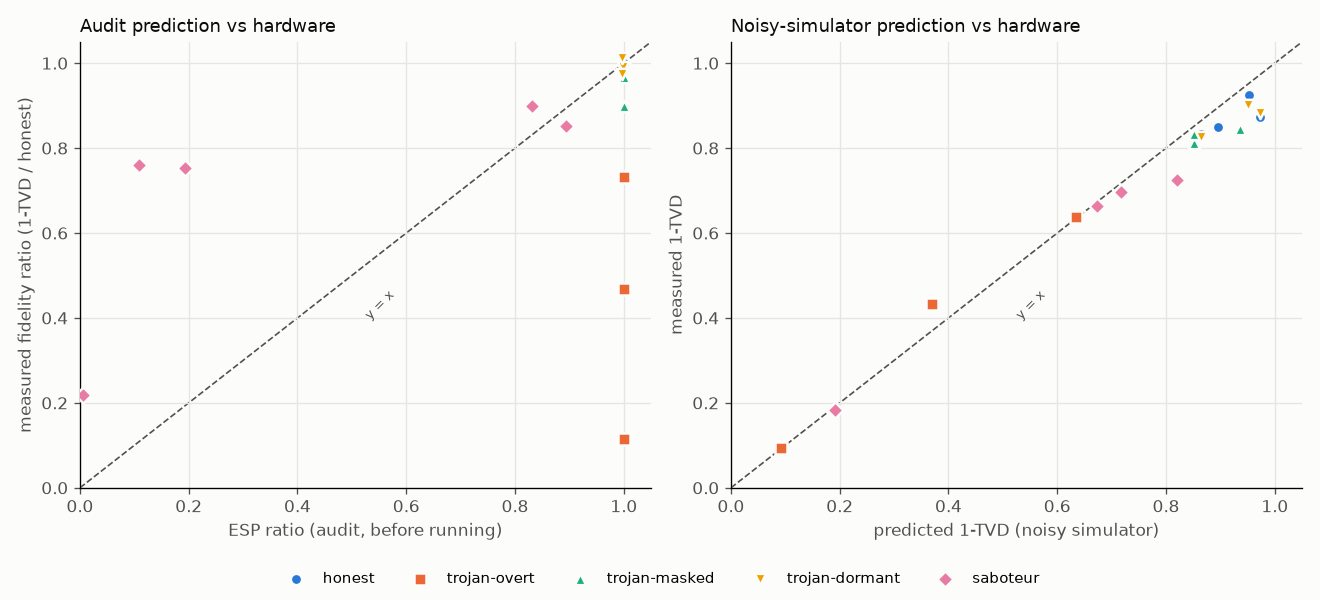
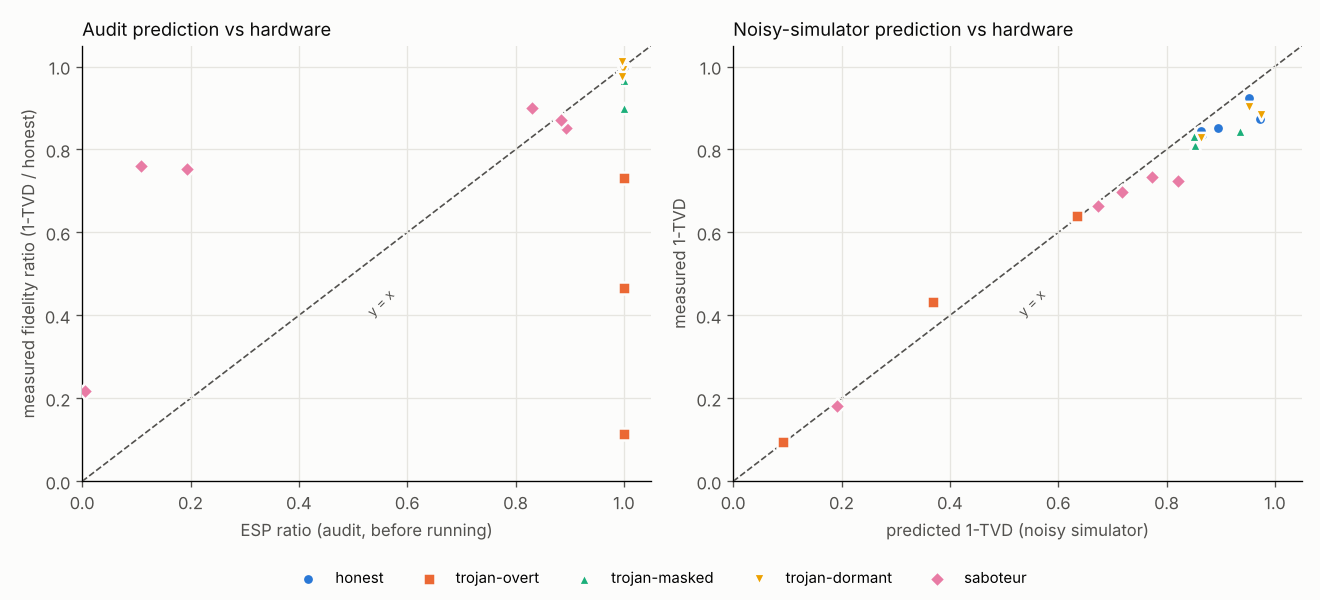
Hardware results: add the first panel job (run 4, ibm_fez) to compare.py, confidence.py and the docs
bench/compare.py and bench/confidence.py now also read bench/live_ibm/*.json. The panel job's
honest compile is the audit's baseline, so it has no verdict or ESP ratio of its own ("-").
README table and text, web/hardware.json, PITCH slides 6 and 10, QA and video script updated.

Claude-Session: https://claude.ai/code/session_01ThAHsKmLnSeGQPru1ModVP

diff --git a/index.html b/index.html
@@ -163,7 +163,7 @@
             <th scope="col">Fidelity<br><small>honest</small></th><th scope="col">Fidelity<br><small>saboteur</small></th></tr></thead>
           <tbody id="hw-rows"></tbody>
         </table>
-        <p class="hw-note">Fidelity is 1 − TVD between the device's measured histogram and the ideal output. Each verdict was decided before the job ran, from QCEC and the fidelity audit on the device's live calibration.</p>
+        <p class="hw-note">Fidelity is 1 − TVD between the device's measured histogram and the ideal output. Each verdict was decided before the job ran, from QCEC and the fidelity audit on the device's live calibration; "–" is a panel job's honest baseline, the audit's reference.</p>
       </div>
     </article>
 

diff --git a/web/app.js b/web/app.js
@@ -437,7 +437,7 @@ function log(r) {
 // ---------- measured on real IBM hardware (web/hardware.json, written by bench/compare.py) ----------
 fetch("web/hardware.json").then((r) => (r.ok ? r.json() : null)).then((hw) => {
   if (!hw?.runs?.length) return;
-  const v = (w) => `<span class="${w === "ACCEPT" ? "good" : "bad"}">${w}</span>`;
+  const v = (w) => (w ? `<span class="${w === "ACCEPT" ? "good" : "bad"}">${w}</span>` : "–");  // a panel job's baseline has no verdict
   $("#hw-rows").innerHTML = hw.runs.map((r) => `<tr><td>${r.device}</td><td>${r.circuit}</td>`
     + `<td>${v(r.honest.verdict)} / ${v(r.saboteur.verdict)}</td><td>${fmt(r.honest.measured)}</td><td>${fmt(r.saboteur.measured)}</td></tr>`).join("");
   $("#hw").hidden = false;

diff --git a/bench/compare.py b/bench/compare.py
@@ -1,7 +1,8 @@
 """Predicted vs measured: every real IBM hardware run in bench/, in one chart and one table.
 
-Reads bench/ibm_*.json (run 1 from `demo.py --ibm`, the rest from bench/ibm_runs.py; jobs still
-queued are skipped). Measured ratio = measured 1-TVD / the honest compile's measured 1-TVD for the
+Reads bench/ibm_*.json (run 1 from `demo.py --ibm`, the rest from bench/ibm_runs.py) and the panel's
+bench/live_ibm/*.json (server.py --allow-ibm); jobs still queued are skipped. A panel job's honest
+baseline is the audit's reference, so it has no verdict or ESP ratio of its own ("–"). Measured ratio = measured 1-TVD / the honest compile's measured 1-TVD for the
 same lock on the same device, the hardware counterpart of the ESP ratio. Run 1 recorded no noisy-sim
 prediction, and its 1-TVD is against a 4,000-shot ideal sample instead of the exact distribution.
 The [low, high] intervals are 95% bootstraps over the measured counts (bench/confidence.py).
@@ -16,7 +17,7 @@ from pathlib import Path
 ROOT = Path(__file__).resolve().parent.parent
 sys.path.insert(0, str(ROOT))
 
-from confidence import intervals
+from confidence import circuits, done, intervals, jobs
 from verify import NAIVE_TOL
 
 CSV, PNG, WEB = ROOT / "bench" / "hardware.csv", ROOT / "bench" / "compare.png", ROOT / "web" / "hardware.json"
@@ -30,10 +31,22 @@ MARKERS = dict(zip(MODES, ("o", "s", "^", "v", "D")))
 
 def load():
     rows = []
-    for path in sorted((ROOT / "bench").glob("ibm_*.json")):
-        d = json.loads(path.read_text(encoding="utf-8"))
+    for d in jobs():
+        if not done(d):
+            continue
         first = len(rows)
-        if "runs" in d:  # demo.py --ibm: honest + saboteur, one circuit
+        if "results" in d:  # server.py --allow-ibm panel job: judge, then its honest baseline
+            res, fid = d["results"], d["checks"]["fidelity"]
+            for (name, mode, _, _), k in zip(circuits(d), ("judge", "baseline")):
+                judge = k == "judge"
+                rows.append({"device": d["device"], "job_id": d["job_id"], "submitted_utc": d["submitted_utc"],
+                             "circuit": name, "mode": mode, "verdict": d["verdict"] if judge else None,
+                             "esp_ratio": fid["ratio"] if judge else None,
+                             "predicted_one_minus_tvd": d["predicted_one_minus_tvd"][k],
+                             "measured_one_minus_tvd": res[k]["one_minus_tvd"],
+                             "measured_ratio": res["measured_ratio"] if judge else 1.0,
+                             "naive_hw_passed": res[k]["naive_passed"]})
+        elif "runs" in d:  # demo.py --ibm: honest + saboteur, one circuit
             honest = d["runs"]["honest"]["one_minus_tvd"]
             for mode, r in d["runs"].items():
                 rows.append({"device": d["device"], "job_id": d["job_id"], "submitted_utc": d["submitted_utc"],
@@ -42,16 +55,14 @@ def load():
                              "measured_one_minus_tvd": r["one_minus_tvd"],
                              "measured_ratio": round(r["one_minus_tvd"] / honest, 3),
                              "naive_hw_passed": 1 - r["one_minus_tvd"] < NAIVE_TOL})
-        elif all("counts" in e for e in d["circuits"]):
+        else:
             rows += [{"device": d["device"], "job_id": d["job_id"], "submitted_utc": d["submitted_utc"],
                       **{k: e[k] for k in FIELDS[4:]}} for e in d["circuits"]]
-        else:
-            continue
         for r, ci in zip(rows[first:], intervals(d)):  # same circuit order as the rows above
             r.update(zip(CI, ci))
-    jobs = sorted({(r["submitted_utc"], r["job_id"]) for r in rows})
+    ids = sorted({(r["submitted_utc"], r["job_id"]) for r in rows})
     for r in rows:
-        r["run"] = jobs.index((r["submitted_utc"], r["job_id"])) + 1
+        r["run"] = ids.index((r["submitted_utc"], r["job_id"])) + 1
         r["circuit"] = r["circuit"].split(" ")[0]
     order = {m: i for i, m in enumerate(MODES)}
     return sorted(rows, key=lambda r: (r["run"], r["circuit"], order[r["mode"]]))
@@ -111,7 +122,7 @@ def table(rows):
           " | Measured ratio [95% CI] | Naive test on hardware |")
     print("|---|---|---|---|---|---|---|---|---|---|")
     for r in rows:
-        print(f"| {r['run']} | {r['device']} | {r['circuit']} | {r['mode']} | {r['verdict']} | {f(r['esp_ratio'])}"
+        print(f"| {r['run']} | {r['device']} | {r['circuit']} | {r['mode']} | {r['verdict'] or '–'} | {f(r['esp_ratio'])}"
               f" | {f(r['predicted_one_minus_tvd'])} | {ci(r, 'measured_one_minus_tvd', *CI[:2])}"
               f" | {ci(r, 'measured_ratio', *CI[2:])}"
               f" | {'pass' if r['naive_hw_passed'] else 'fail'} |")
@@ -121,7 +132,7 @@ def main():
     sys.stdout.reconfigure(encoding="utf-8")
     rows = load()
     with CSV.open("w", newline="") as fh:
-        w = csv.DictWriter(fh, fieldnames=FIELDS + CI)
+        w = csv.DictWriter(fh, fieldnames=FIELDS + CI, lineterminator="\n")
         w.writeheader()
         w.writerows(rows)
     chart(rows)

diff --git a/bench/confidence.py b/bench/confidence.py
@@ -1,11 +1,12 @@
 """95% bootstrap intervals for the hardware results: how much of each difference is shot noise?
 
-For every circuit in the completed ibm_fez and ibm_kingston bench JSON files, resample its measured
+For every circuit in the completed ibm_fez and ibm_kingston bench JSON files (bench/ibm_*.json and the
+panel's bench/live_ibm/*.json), resample its measured
 counts 1,000 times (multinomial, same shot count) and recompute 1-TVD against the same ideal
 reference; the measured ratio resamples the circuit and its honest compile independently (the
 honest row divides one draw by itself, so its ratio stays 1). Intervals are the 2.5th-97.5th
 percentiles. A difference from the honest compile is significant when the ratio interval excludes 1.
-The ideal reference is held fixed (exact for runs 2-3, a 4,000-shot sample for run 1). bench/compare.py
+The ideal reference is held fixed (exact for every run but run 1, a 4,000-shot sample there). bench/compare.py
 adds these intervals to bench/hardware.csv and the README table.
     python bench/confidence.py
 """
@@ -16,6 +17,10 @@ from pathlib import Path
 import numpy as np
 
 ROOT = Path(__file__).resolve().parent.parent
+sys.path.insert(0, str(ROOT))
+
+from circuits import DEMOS
+
 RESAMPLES, SEED = 1000, 0  # the seed only makes the bootstrap reproducible; nothing here is a lock
 
 
@@ -23,6 +28,10 @@ def circuits(d):
     """(circuit, mode, counts, ideal) per circuit of one job file, in the order compare.load reads them."""
     if "runs" in d:  # demo.py --ibm
         return [(d["circuit"], m, r["counts"], d["ideal_counts"]) for m, r in d["runs"].items()]
+    if "results" in d:  # server.py --allow-ibm panel job: the judge's compile, then its honest baseline
+        name = dict(zip(("grover", "qaoa", "vqe"), DEMOS))[d["params"]["circuit"]]
+        return [(name, mode, d["results"][k]["counts"], d["ideal"])
+                for k, mode in (("judge", d["params"]["mode"]), ("baseline", "honest"))]
     return [(e["circuit"], e["mode"], e["counts"], e["ideal"]) for e in d["circuits"]]
 
 
@@ -45,10 +54,21 @@ def intervals(d):
     return [(*pct(f), *pct(f / honest[name])) for f, (name, _, _, _) in zip(draws, items)]
 
 
+def done(d):
+    """True once a job file holds its measured counts (queued jobs are skipped)."""
+    return "runs" in d or "results" in d or all(isinstance(e, dict) and "counts" in e for e in d["circuits"])
+
+
+def jobs():
+    """Every hardware job file: bench/ibm_*.json, then the panel's bench/live_ibm/*.json."""
+    bench = ROOT / "bench"
+    for path in sorted(bench.glob("ibm_*.json")) + sorted((bench / "live_ibm").glob("*.json")):
+        yield json.loads(path.read_text(encoding="utf-8"))
+
+
 def files():
-    for path in sorted((ROOT / "bench").glob("ibm_*.json")):
-        d = json.loads(path.read_text(encoding="utf-8"))
-        if d["device"] in ("ibm_fez", "ibm_kingston") and ("runs" in d or all("counts" in e for e in d["circuits"])):
+    for d in jobs():
+        if d["device"] in ("ibm_fez", "ibm_kingston") and done(d):
             yield d
 
 

diff --git a/README.md b/README.md
@@ -160,7 +160,7 @@ None gave a proof, so `verify.py` is unchanged. We did not try QCEC's hybrid Sch
 
 ## Real hardware runs
 
-Every row was verified before it ran: QCEC plus the ESP audit against the device's live calibration, with the honest compile of the same fresh lock as the baseline (transpiler seed 7). Run 1 is the original `python demo.py --ibm` run (4,000 shots, 1-TVD against a 4,000-shot ideal sample, no noisy-sim prediction). Runs 2 and 3 are `python bench/ibm_runs.py B` and `A` on 2026-10-24 (2,000 shots per circuit, 1-TVD against the exact ideal distribution, prediction from `AerSimulator.from_backend` on the same device). Measured ratio = measured 1-TVD / the honest compile's measured 1-TVD for the same lock and device, the hardware counterpart of the ESP ratio. Naive test = TVD < 0.10 between the measured histogram and the ideal output. Jobs: `dbe5hp7pc3tc739l5al0` (run 1), `dbefmkom94ac738rnks0` (run 2), `dbefmkvsstms73fbvl4g` (run 3); 13 s of QPU time for runs 2-3. A Grover honest vs saboteur job on ibm_marrakesh (`dbefmkvgdj9s73flmk80`) was still queued when this was written. Intervals are 95% bootstraps (`bench/confidence.py`: 1,000 resamples of each circuit's measured counts, the ideal reference held fixed); a difference from the honest compile is significant when the ratio interval excludes 1. Raw counts are in `bench/ibm_*.json`, this table in `bench/hardware.csv` (`python bench/compare.py`).
+Every row was verified before it ran: QCEC plus the ESP audit against the device's live calibration, with the honest compile of the same fresh lock as the baseline (transpiler seed 7). Run 1 is the original `python demo.py --ibm` run (4,000 shots, 1-TVD against a 4,000-shot ideal sample, no noisy-sim prediction). Runs 2 and 3 are `python bench/ibm_runs.py B` and `A` on 2026-10-24 (2,000 shots per circuit, 1-TVD against the exact ideal distribution, prediction from `AerSimulator.from_backend` on the same device). Measured ratio = measured 1-TVD / the honest compile's measured 1-TVD for the same lock and device, the hardware counterpart of the ESP ratio. Naive test = TVD < 0.10 between the measured histogram and the ideal output. Run 4 is the first job from the panel (`python server.py --allow-ibm`, [below](#run-on-ibm-hardware-from-the-panel)) on 2026-10-26: Grover, saboteur vs the honest compile of the same lock, same 2,000 shots, exact ideal and noisy-sim prediction; the honest compile there is the audit's baseline, not a separately judged circuit, so it has no verdict or ESP ratio of its own. Jobs: `dbe5hp7pc3tc739l5al0` (run 1), `dbefmkom94ac738rnks0` (run 2), `dbefmkvsstms73fbvl4g` (run 3), `dbfm3uvgdj9s73bbu600` (run 4); 13 s of QPU time for runs 2-3, 3 s for run 4. Intervals are 95% bootstraps (`bench/confidence.py`: 1,000 resamples of each circuit's measured counts, the ideal reference held fixed); a difference from the honest compile is significant when the ratio interval excludes 1. Raw counts are in `bench/ibm_*.json` and `bench/live_ibm/*.json`, this table in `bench/hardware.csv` (`python bench/compare.py`).
 
 | Run | Device | Circuit | Compiler | Verdict | ESP ratio | Predicted 1-TVD | Measured 1-TVD [95% CI] | Measured ratio [95% CI] | Naive test on hardware |
 |---|---|---|---|---|---|---|---|---|---|
@@ -183,12 +183,14 @@ Every row was verified before it ran: QCEC plus the ESP audit against the device
 | 3 | ibm_fez | VQE | trojan-masked | REJECT | 1.000 | 0.935 | 0.844 [0.823, 0.860] | 0.967 [0.938, 1.001] | fail |
 | 3 | ibm_fez | VQE | trojan-dormant | REJECT | 0.997 | 0.974 | 0.883 [0.860, 0.899] | 1.012 [0.981, 1.046] | fail |
 | 3 | ibm_fez | VQE | saboteur | REJECT | 0.108 | 0.673 | 0.664 [0.642, 0.684] | 0.761 [0.735, 0.794] | fail |
+| 4 | ibm_fez | Grover | honest | – | – | 0.863 | 0.844 [0.827, 0.863] | 1.000 | fail |
+| 4 | ibm_fez | Grover | saboteur | REJECT | 0.883 | 0.774 | 0.735 [0.715, 0.755] | 0.870 [0.840, 0.901] | fail |
 
-Every honest-vs-saboteur difference is significant (all five saboteur ratio intervals exclude 1, the closest being run 1's [0.877, 0.921]); of the Trojans whose histograms stay close to honest, only the masked one on QAOA differs significantly from its honest compile, and the dormant and other masked Trojans' intervals include 1.
+The verdicts held on every repeat: every honest compile that was judged (runs 1-3) was accepted and all six saboteurs were rejected, including the Grover saboteur on ibm_fez in runs 1, 3 and 4 (ESP ratio 0.831, 0.005 and 0.883 on three calibrations). Every honest-vs-saboteur difference is significant (all six saboteur ratio intervals exclude 1, the closest being run 1's [0.877, 0.921]); of the Trojans whose histograms stay close to honest, only the masked one on QAOA differs significantly from its honest compile, and the dormant and other masked Trojans' intervals include 1.
 
 ![Left: ESP ratio before running vs measured fidelity ratio. Right: noisy-simulator 1-TVD vs measured 1-TVD. One point per circuit, colored by compiler](bench/compare.png)
 
-The audit pointed the right way but not to scale: every saboteur it rejected measured worse on the device than its honest compile (measured ratio 0.22-0.90), yet ESP overstates large losses, partly because even a ruined circuit's histogram keeps some overlap with the ideal (ibm_fez saboteurs in run 3: ESP ratio 0.005-0.19, measured 0.22-0.76), while the noisy simulator on the same calibration came within -0.100 to +0.063 of the measured 1-TVD on all 17 circuits (median gap 0.037, below the prediction on 14). On hardware the histogram test could not tell attacks from noise: the dormant Trojan passed it on QAOA (1-TVD 0.902) and failed it on Grover and VQE, the masked Trojan failed it on all three circuits, but the honest compile also failed it in 4 of 5 runs (it passed only on QAOA), while QCEC returned `not_equivalent` for all nine Trojans before anything ran. Limits: this is one session on one day with one job per device and no repeats, 2,000 shots per circuit, and calibration drifts between runs: the same Grover saboteur on ibm_fez scored ESP ratio 0.83 in run 1 and 0.005 in run 3, eleven and a half hours later.
+The audit pointed the right way but not to scale: every saboteur it rejected measured worse on the device than its honest compile (measured ratio 0.22-0.90), yet ESP overstates large losses, partly because even a ruined circuit's histogram keeps some overlap with the ideal (ibm_fez saboteurs in run 3: ESP ratio 0.005-0.19, measured 0.22-0.76), while the noisy simulator on the same calibration came within -0.100 to +0.063 of the measured 1-TVD on all 19 circuits (median gap 0.037, below the prediction on 16). On hardware the histogram test could not tell attacks from noise: the dormant Trojan passed it on QAOA (1-TVD 0.902) and failed it on Grover and VQE, the masked Trojan failed it on all three circuits, but the honest compile also failed it in 5 of 6 runs (it passed only on QAOA), while QCEC returned `not_equivalent` for all nine Trojans before anything ran. The mild saboteur the audit accepted on ibm_kingston's live calibration (QAOA and VQE, see [Honest limitations](#honest-limitations)) never ran on hardware, so we have no measured result for it. Limits: these are four jobs on two days (2026-10-24 and 26), only the Grover saboteur on ibm_fez was repeated, and QAOA, VQE and the Trojans ran once each; 2,000 shots per circuit; and calibration drifts between runs: the same Grover saboteur on ibm_fez scored ESP ratio 0.83 in run 1 and 0.005 in run 3, eleven and a half hours later.
 
 ### Calibration drift
 
@@ -297,7 +299,7 @@ What remains after the fixes is listed under limitations: lone-CX skeletons, the
 - **The key is a list of continuous angles, not bits.** There is no key-length security argument; leakage is measured empirically against random guessing, not proven.
 - **The naive test is an ideal-simulator best case.** TVD < 0.10 stands in for "the histogram looks right", and we run it noiselessly, the most favourable case for it. An honest compile on the FakeBrisbane noise model already lands 0.05-0.29 TVD from the ideal histogram (1 - noisy-sim fidelity above), so a user reading real hardware output could not demand tighter, and the occasional naive catch of the masked Trojan on QAOA and VQE would vanish in that noise.
 - **The fidelity audit trusts calibration data.** ESP ignores crosstalk, coherent errors and (unless the compile is scheduled) idle time, the 0.90 threshold is a heuristic, and the audit needs a local compile as a baseline. It checks that the returned circuit is not measurably worse than that baseline; it does not prove the compile is good. A better third-party compiler simply scores above 1.0. It can miss a mild saboteur: `bench/live_targets.py` ran the detection matrix against the live calibration of ibm_fez, ibm_kingston and ibm_marrakesh (2026-10-24, no jobs, one fresh lock per circuit), and on ibm_kingston the saboteur's qubits were barely worse than the honest layout's (ESP ratio 0.921 on QAOA, 0.912 on VQE), so it was accepted; the other 43 of 45 verdicts were as expected.
-- **Small, simulated, self-built.** Demos use 3-4 active qubits on fake backends; our real-hardware results are the three runs on ibm_fez and ibm_kingston above, from one day. In the scaling benchmark (QAOA on random 3-regular graphs) QCEC proves equivalence up to 10 qubits and times out at 14 and 20, so beyond about 10 qubits an honest compile is a false REJECT. The attacks are our own stand-ins modelled on the literature, not captured from real malicious compilers.
+- **Small, simulated, self-built.** Demos use 3-4 active qubits on fake backends; our real-hardware results are the four runs on ibm_fez and ibm_kingston above, from two days. In the scaling benchmark (QAOA on random 3-regular graphs) QCEC proves equivalence up to 10 qubits and times out at 14 and 20, so beyond about 10 qubits an honest compile is a false REJECT. The attacks are our own stand-ins modelled on the literature, not captured from real malicious compilers.
 
 ## Round 2 roadmap
 

diff --git a/docs/PITCH.md b/docs/PITCH.md
@@ -100,9 +100,9 @@ Slide-by-slide text for the organisers' Canva template: 10 slides, the limit. Th
 
 - **Saboteur:** truly equivalent, on qubits with 6.0% readout error (median 2.0%). ESP **0.389** vs honest 0.710; noisy-sim right answer 66% → 31%.
 - 90 matrices (3 circuits × 2 devices × 15 locks): all correct.
-- **Real ibm_fez, same 15 compiles:** all verdicts as above; saboteur measured 1-TVD 0.18-0.70 vs honest 0.83-0.93.
+- **Real ibm_fez, same 15 compiles:** all verdicts as above; saboteur measured 1-TVD 0.18-0.70 vs honest 0.83-0.93. The Grover saboteur was rejected on all three ibm_fez runs (2026-10-24 twice, 2026-10-26).
 
-*Speaker note:* The table is Grover on FakeBrisbane, a 127-qubit IBM device model. The left column is what people do today; it catches only the visible Trojan (on QAOA and VQE it sometimes also catches the masked one, because that Trojan's distance straddles the 0.10 tolerance). The proof catches every Trojan. The saboteur really is equivalent, so QCEC passes it, and only the audit catches it: its ESP ratio is 0.55, below the 0.90 threshold. On the noisy simulator the marked item 101 comes out 66% of the time from an honest compile and 31% from the saboteur's. The noisy simulation is evidence only; the verdict uses ESP. The 90 matrices cover Grover, QAOA and VQE on FakeBrisbane and FakeTorino, each with a fresh random lock. The last bullet is one job on the real ibm_fez (2026-10-24, job dbefmkvsstms73fbvl4g, 2,000 shots per circuit): all five compilers for each of the three circuits, verified before they ran. On the device the 0.10 histogram test failed the honest compile on Grover and VQE too, so there it cannot tell an attack from noise.
+*Speaker note:* The table is Grover on FakeBrisbane, a 127-qubit IBM device model. The left column is what people do today; it catches only the visible Trojan (on QAOA and VQE it sometimes also catches the masked one, because that Trojan's distance straddles the 0.10 tolerance). The proof catches every Trojan. The saboteur really is equivalent, so QCEC passes it, and only the audit catches it: its ESP ratio is 0.55, below the 0.90 threshold. On the noisy simulator the marked item 101 comes out 66% of the time from an honest compile and 31% from the saboteur's. The noisy simulation is evidence only; the verdict uses ESP. The 90 matrices cover Grover, QAOA and VQE on FakeBrisbane and FakeTorino, each with a fresh random lock. The last bullet is one job on the real ibm_fez (2026-10-24, job dbefmkvsstms73fbvl4g, 2,000 shots per circuit): all five compilers for each of the three circuits, verified before they ran. On the device the 0.10 histogram test failed the honest compile on Grover and VQE too, so there it cannot tell an attack from noise. The Grover saboteur on ibm_fez was also rejected in run 1 and in our first panel job on 2026-10-26 (job dbfm3uvgdj9s73bbu600, measured fidelity ratio 0.87 against the honest compile of the same lock).
 
 ---
 
@@ -159,14 +159,14 @@ Slide-by-slide text for the organisers' Canva template: 10 slides, the limit. Th
 
 | Limit today | Round 2 |
 |---|---|
-| Three hardware runs on one day (ibm_fez, ibm_kingston): every rejected saboteur measured worse; ESP trusts calibration data and let a mild saboteur through twice on ibm_kingston's live calibration | Repeats across days and devices |
+| Four hardware runs on two days (ibm_fez, ibm_kingston): every rejected saboteur measured worse; ESP trusts calibration data and let a mild saboteur through twice on ibm_kingston's live calibration (never run on hardware) | Repeats across days and devices |
 | QCEC proves up to 10 qubits, times out at 14; padding grows as n² | QCEC past 10 qubits, cheaper padding |
 | Own stand-in compilers | Qiskit transpiler plugin |
 | Scheduled compiles: idle time only estimated from T1/T2 | Check the idle model on hardware |
 
 - **Impact:** pharma (VQE weights) and finance (QAOA angles) keep trained parameters secret; vendors get a checkable receipt.
 
-*Speaker note:* `demo.py --ibm` and `bench/ibm_runs.py` submit verified compiles to real IBM devices with your own IBM Quantum account. On 2026-10-24 we ran 19 circuits in three jobs on ibm_fez and ibm_kingston (jobs dbe5hp7pc3tc739l5al0, dbefmkom94ac738rnks0, dbefmkvsstms73fbvl4g). Every saboteur the audit rejected measured worse on the device than its honest compile (measured fidelity ratio 0.22-0.90); ESP overstated the large losses, while the noisy simulator came within 0.10 of every measured 1-TVD. QCEC caught all nine Trojans before they ran. Against live calibration without running anything, ibm_kingston let the saboteur through on QAOA and VQE (ESP ratio 0.921 and 0.912). One day, no repeats. Padding gives every qubit pair the busiest pair's CX count: 6 pairs at 4 qubits, 8,001 at 127. In our scaling benchmark lock, compile and audit stay under half a second at 20 qubits; QCEC is the limit, proving QAOA up to 10 qubits and timing out at 14. Honest ALAP-scheduled compiles now pass, with idle time estimated from T1/T2 only; weaker scheduled compiles (levels 1-2) are often rejected because idle now counts. The QAOA graph is hidden statistically, not exactly, and an attacker who sees input/output pairs of the unlocked circuit is out of scope; an oracle-guided attack suite is also on the Round 2 list. In India, the National Quantum Mission (₹6,003.65 crore, 2023-24 to 2030-31) aims at intermediate-scale quantum computers with 50-1,000 physical qubits; anyone who compiles circuits for them through a third party faces the same question. The receipt for vendors is an equivalence proof plus an ESP ratio of at least 0.90.
+*Speaker note:* `demo.py --ibm` and `bench/ibm_runs.py` submit verified compiles to real IBM devices with your own IBM Quantum account. On 2026-10-24 we ran 19 circuits in three jobs on ibm_fez and ibm_kingston (jobs dbe5hp7pc3tc739l5al0, dbefmkom94ac738rnks0, dbefmkvsstms73fbvl4g), and on 2026-10-26 the panel ran Grover saboteur vs honest on ibm_fez (job dbfm3uvgdj9s73bbu600). All six saboteurs were rejected and every one measured worse on the device than its honest compile (measured fidelity ratio 0.22-0.90, all significant on 95% bootstrap intervals); ESP overstated the large losses, while the noisy simulator came within 0.10 of every measured 1-TVD. QCEC caught all nine Trojans before they ran. Against live calibration without running anything, ibm_kingston let the saboteur through on QAOA and VQE (ESP ratio 0.921 and 0.912); that saboteur never ran on hardware, so we have no measurement of it. Two days, and only the Grover saboteur on ibm_fez was repeated. Padding gives every qubit pair the busiest pair's CX count: 6 pairs at 4 qubits, 8,001 at 127. In our scaling benchmark lock, compile and audit stay under half a second at 20 qubits; QCEC is the limit, proving QAOA up to 10 qubits and timing out at 14. Honest ALAP-scheduled compiles now pass, with idle time estimated from T1/T2 only; weaker scheduled compiles (levels 1-2) are often rejected because idle now counts. The QAOA graph is hidden statistically, not exactly, and an attacker who sees input/output pairs of the unlocked circuit is out of scope; an oracle-guided attack suite is also on the Round 2 list. In India, the National Quantum Mission (₹6,003.65 crore, 2023-24 to 2030-31) aims at intermediate-scale quantum computers with 50-1,000 physical qubits; anyone who compiles circuits for them through a third party faces the same question. The receipt for vendors is an equivalence proof plus an ESP ratio of at least 0.90.
 
 ---
 

diff --git a/docs/QA.md b/docs/QA.md
@@ -50,7 +50,7 @@ Then it sees the unlocked circuit: TrustPass still checks integrity and fidelity
 Out of our threat model, because the compiler never sees results, but we measured it: for a 2-qubit, 1-edge QAOA, a least-squares fit of all 18 key angles to the outputs of 6 random product-state inputs reproduced held-out inputs exactly and recovered (γ, β) = (0.79, 0.39) for the true (0.80, 0.40) [README, Honest limitations; Research gaps, row 3]. A defence and an attack suite on larger circuits are Round 2.
 
 **14. You have only a few real hardware results. Why should we trust the numbers?**
-Everything else runs on IBM fake backends with real calibration data, and the attacks are our own stand-ins modelled on the literature [README, Honest limitations]. On 2026-10-24 we ran three hardware jobs, 19 circuits in all, each verified against the device's live calibration before it ran: Grover honest vs saboteur on ibm_fez (4,000 shots) and on ibm_kingston, and all five compilers on Grover, QAOA and VQE on ibm_fez (2,000 shots each) [README, Real hardware runs]. Every saboteur the audit rejected measured worse on the device than its honest compile (measured fidelity ratio 0.22-0.90), though ESP overstated the large losses; the noisy simulator came within -0.100 to +0.063 of every measured 1-TVD; QCEC caught all nine Trojans before they ran; and the 0.10 histogram test failed the honest compile in 4 of 5 runs, so on hardware it cannot tell an attack from noise. Against live calibration without running anything, the audit also accepted the saboteur twice on ibm_kingston (ESP ratio 0.921 on QAOA, 0.912 on VQE) [README, Honest limitations]. That is one day, one job per device, no repeats: the check pointed the right way on every run we made, which still says little about how reliable it is across days.
+Everything else runs on IBM fake backends with real calibration data, and the attacks are our own stand-ins modelled on the literature [README, Honest limitations]. On 2026-10-24 we ran three hardware jobs, 19 circuits in all, each verified against the device's live calibration before it ran: Grover honest vs saboteur on ibm_fez (4,000 shots) and on ibm_kingston, and all five compilers on Grover, QAOA and VQE on ibm_fez (2,000 shots each); on 2026-10-26 the panel's first job repeated Grover honest vs saboteur on ibm_fez (2,000 shots) [README, Real hardware runs]. All six saboteurs were rejected before they ran, and every one measured worse on the device than its honest compile (measured fidelity ratio 0.22-0.90, each significant on a 95% bootstrap interval), though ESP overstated the large losses; the noisy simulator came within -0.100 to +0.063 of every measured 1-TVD; QCEC caught all nine Trojans before they ran; and the 0.10 histogram test failed the honest compile in 5 of 6 runs, so on hardware it cannot tell an attack from noise. Against live calibration without running anything, the audit also accepted the saboteur twice on ibm_kingston (ESP ratio 0.921 on QAOA, 0.912 on VQE) [README, Honest limitations]; that saboteur never ran on hardware, so we have no measured result for it. That is four jobs on two days, and only the Grover saboteur on ibm_fez was repeated (rejected all three times): the check pointed the right way on every run we made, which still says little about how reliable it is across days.
 
 ## Originality
 

diff --git a/docs/VIDEO_SCRIPT.md b/docs/VIDEO_SCRIPT.md
@@ -53,6 +53,6 @@ That's about 440 spoken words, roughly 2:45 at 160 words a minute. Rehearse with
 ## Words to avoid (judges will check)
 
 - Say "**checks** it's not sabotaged", not "proves". The fidelity audit uses a threshold. Only the equivalence check is a proof.
-- Say "on a **127-qubit IBM device model**" or "**simulated** IBM device with real calibration data", never "on real IBM hardware": the demos in the video are simulated. Our hardware results are three jobs on ibm_fez and ibm_kingston on one day (2026-10-24); if you mention them, say "one day, no repeats" (every saboteur rejected and measured worse on the device: 1-TVD 0.18-0.74 against honest 0.83-0.93).
+- Say "on a **127-qubit IBM device model**" or "**simulated** IBM device with real calibration data", never "on real IBM hardware": the demos in the video are simulated. Our hardware results are four jobs on ibm_fez and ibm_kingston on two days (2026-10-24 and 26); if you mention them, say "two days, few repeats" (every saboteur rejected and measured worse on the device: 1-TVD 0.18-0.74 against honest 0.83-0.93).
 - Say the compiler "learns nothing **about the angles**", not "learns nothing".
 - The QAOA graph is hidden **statistically**, not perfectly. If asked, that's in the README limitations.
